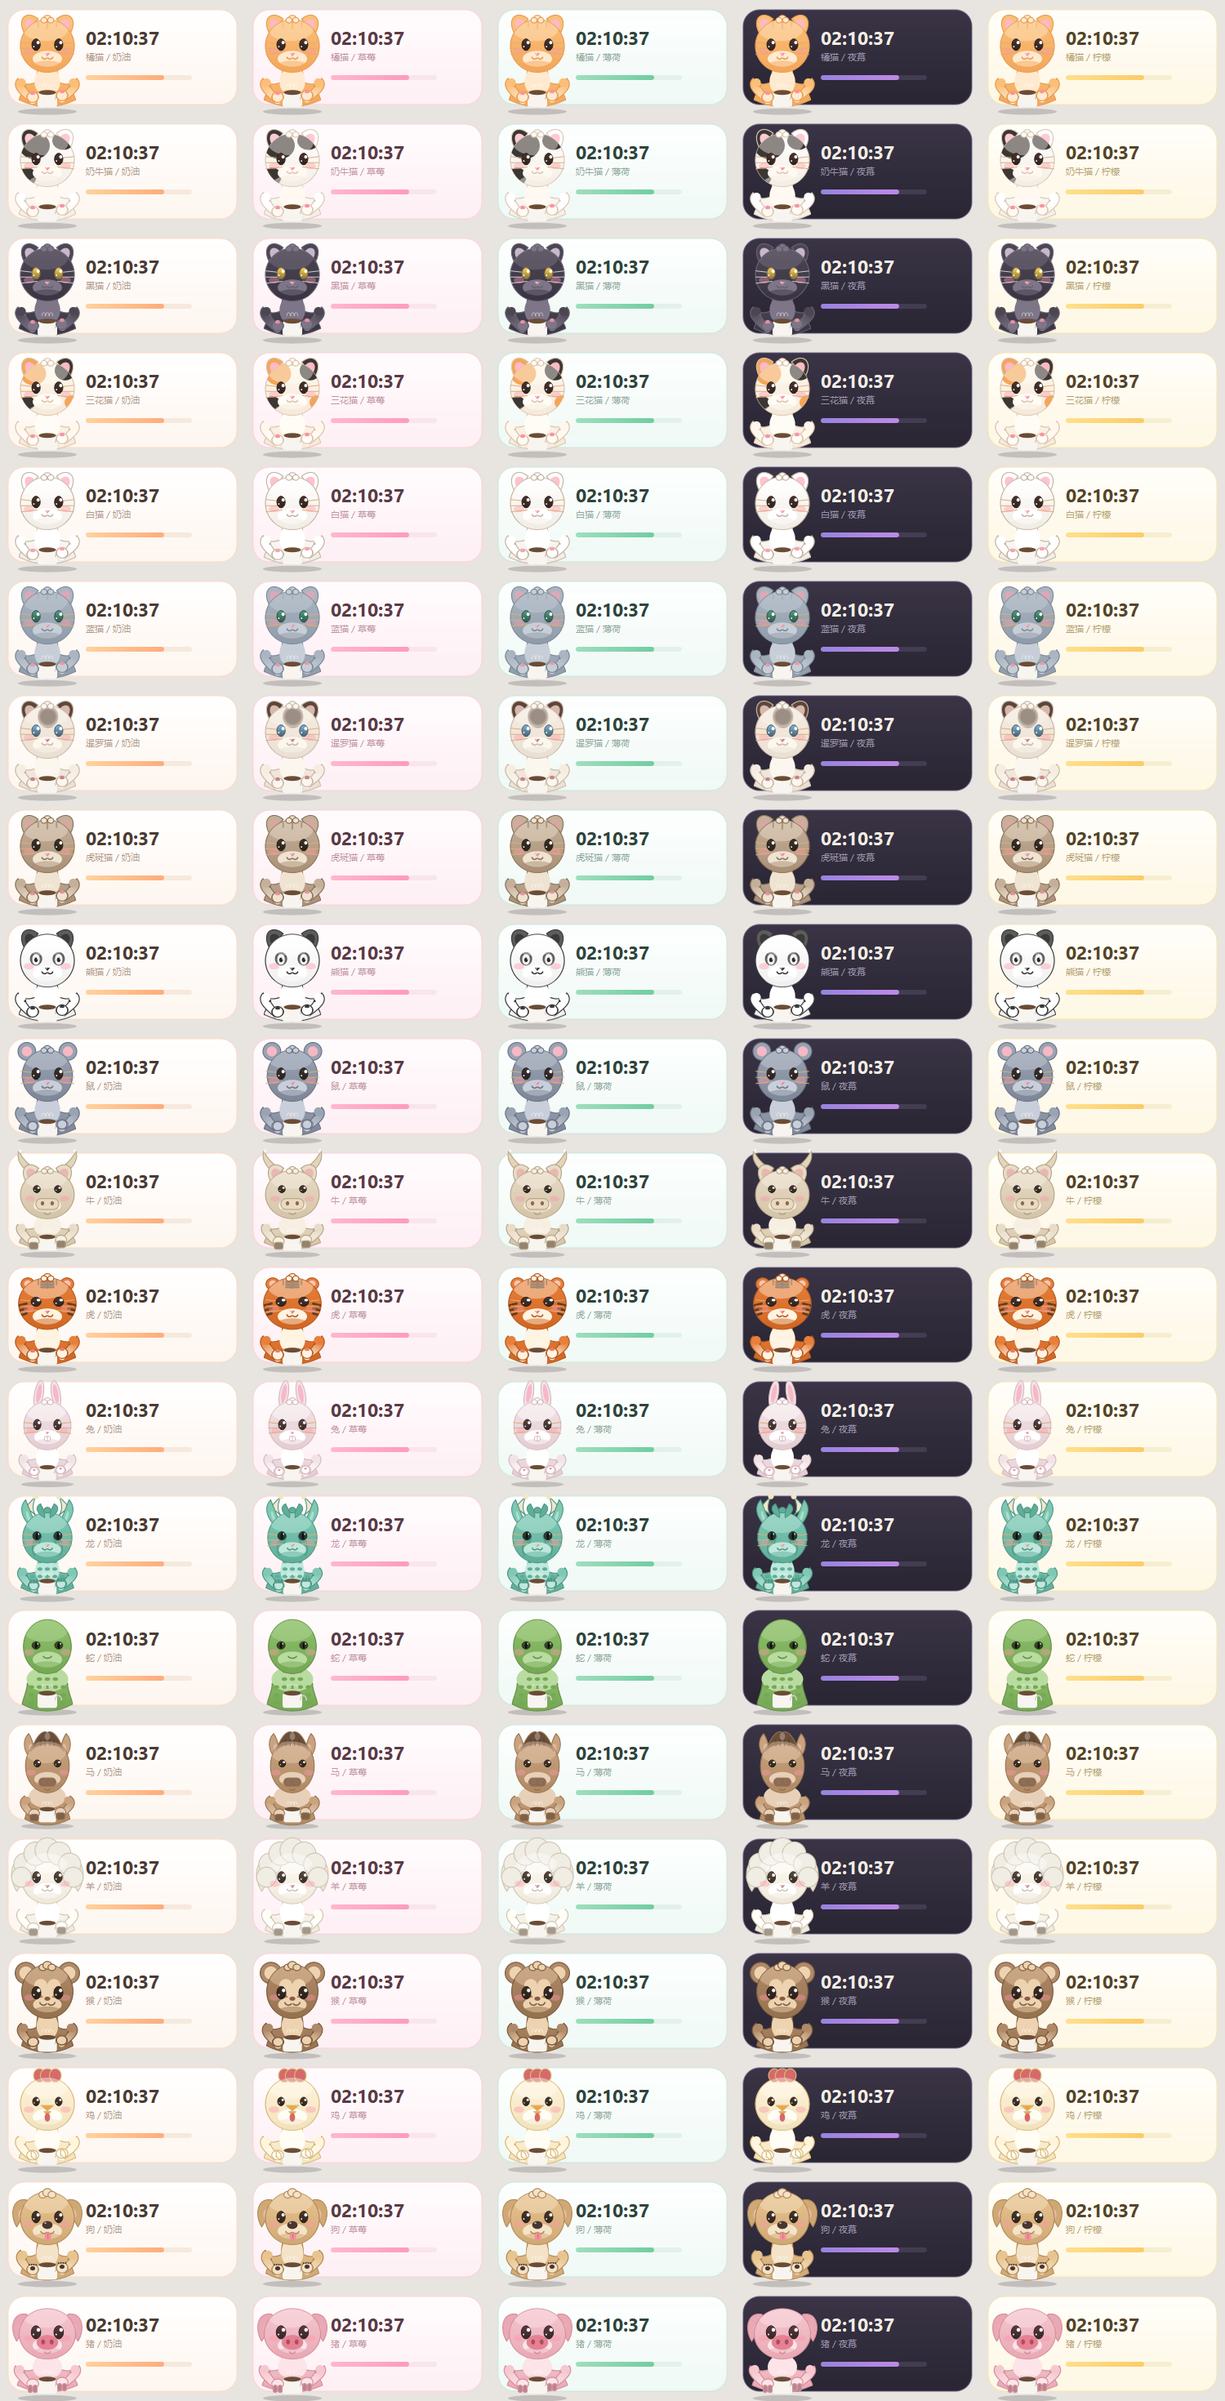
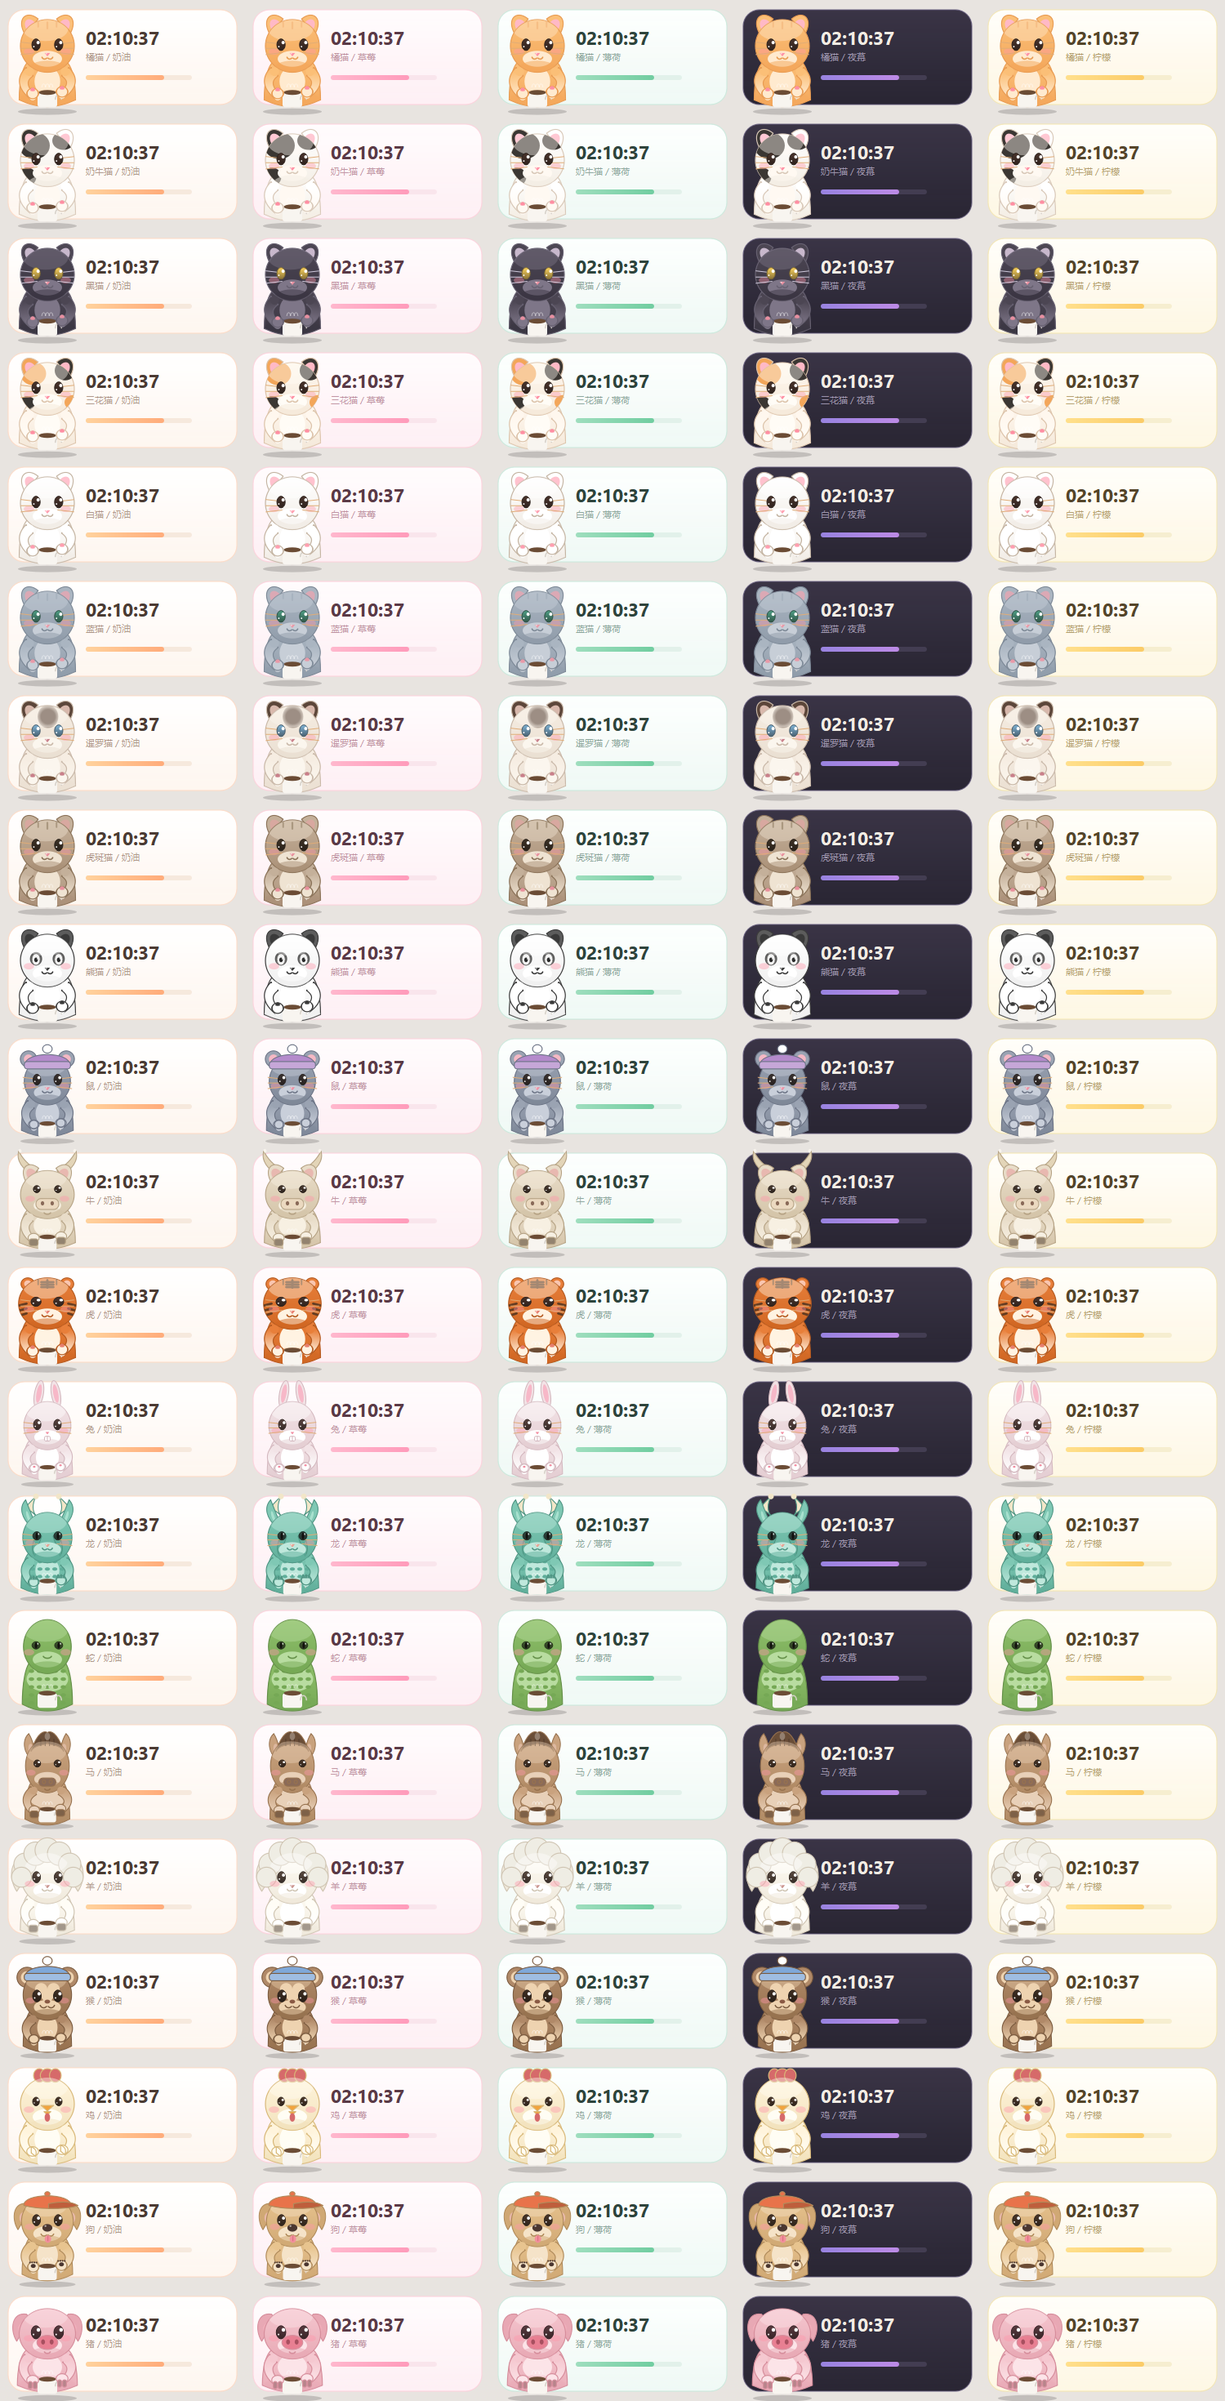
v32: 毛发改帽子（狗棒球帽/猴鼠毛线帽），下半身退回 v30 圆润版，围巾复位

diff --git a/cat_clock.py b/cat_clock.py
@@ -714,60 +714,55 @@ def _draw_arm(p, sx, sy, ex, ey, bx, by, s, colors, outline):
                          sh_w * 0.80, sh_w * 0.80))
 
 
-def _draw_hair(p, cx, cy, s, colors, outline, style, head_top, hw=0.88, t=0.0):
-    """头顶毛发：短绒毛簇 / 柔和浏海 / 龙背鳍，避免直立天线感。"""
+def _draw_hat(p, cx, cy, s, colors, outline, style, head_top, hw=0.88, t=0.0):
+    """头顶帽子：cap（棒球帽）/ beanie（毛线帽）。这种 Q 版风格不画头发。"""
     if style == "none":
         return
-    fur_l = colors["fur_l"]
-    fur_d = colors["fur_d"]
-    top = head_top + 0.03 * s              # 根部略沉入头顶
-    fine = s >= 110
-    p.setPen(outline)
-    p.setBrush(QColor(fur_l))
-
-    if style == "fluff":
-        # 中心三小簇，重叠成柔软毛团，不超出头顶太多
-        for dx, dy, rx, ry in ((0.00, -0.045, 0.065, 0.055),
-                               (-0.055, -0.020, 0.050, 0.045),
-                               (0.055, -0.020, 0.050, 0.045)):
-            p.drawEllipse(QRectF(cx + dx * s - rx * s, top + dy * s - ry * s,
-                                 2 * rx * s, 2 * ry * s))
-        if fine:
-            # 两侧各一个小绒球，让轮廓柔和
-            for sign in (-1, 1):
-                p.drawEllipse(QRectF(cx + sign * hw / 2 * s * 0.85 - 0.035 * s,
-                                     top - 0.035 * s,
-                                     0.07 * s, 0.06 * s))
-    elif style == "bangs":
-        # 额前浏海：三朵圆润小云，像一撮毛盖在额头
-        for dx, dy, rx, ry in ((-0.075, 0.015, 0.065, 0.055),
-                               (0.000, -0.020, 0.075, 0.065),
-                               (0.075, 0.015, 0.065, 0.055)):
-            p.drawEllipse(QRectF(cx + dx * s - rx * s, top + dy * s - ry * s,
-                                 2 * rx * s, 2 * ry * s))
-        if fine:
-            # 鬓角两小缕
-            for sign in (-1, 1):
-                p.drawEllipse(QRectF(cx + sign * 0.19 * s - 0.032 * s,
-                                     top + 0.06 * s - 0.028 * s,
-                                     0.064 * s, 0.056 * s))
-    elif style == "crest":
-        # 龙：柔和背鳍，从后脑勺向上向后飘，不立刺
-        pc = QColor(colors.get("mane") or fur_d)
-        p.setBrush(pc)
-        for sign in (-1, 1):
-            crest = QPainterPath()
-            crest.moveTo(cx + sign * 0.05 * s, top + 0.06 * s)
-            crest.cubicTo(cx + sign * 0.20 * s, top - 0.02 * s,
-                          cx + sign * 0.22 * s, top - 0.13 * s,
-                          cx + sign * 0.12 * s, top - 0.18 * s)
-            crest.cubicTo(cx + sign * 0.08 * s, top - 0.10 * s,
-                          cx + sign * 0.03 * s, top - 0.04 * s,
-                          cx + sign * 0.05 * s, top + 0.06 * s)
-            crest.closeSubpath()
-            p.drawPath(crest)
-        # 中间一簇把左右连起来
-        p.drawEllipse(QRectF(cx - 0.06 * s, top - 0.12 * s, 0.12 * s, 0.10 * s))
+    top = head_top
+    line_c = outline.color()
+    if style == "cap":
+        # 帽身：圆顶盖在头顶上半，颜色明快
+        cap_c = "#E8734A"
+        dome = QPainterPath()
+        dome.moveTo(cx - 0.40 * s, top + 0.16 * s)
+        dome.cubicTo(cx - 0.42 * s, top - 0.06 * s,
+                     cx + 0.42 * s, top - 0.06 * s,
+                     cx + 0.40 * s, top + 0.16 * s)
+        dome.quadTo(cx, top + 0.26 * s, cx - 0.40 * s, top + 0.16 * s)
+        dome.closeSubpath()
+        p.setPen(outline)
+        p.setBrush(QColor(cap_c))
+        p.drawPath(dome)
+        # 帽檐：向右前方挑出
+        brim = QPainterPath()
+        brim.moveTo(cx + 0.02 * s, top + 0.13 * s)
+        brim.quadTo(cx + 0.36 * s, top + 0.06 * s, cx + 0.52 * s, top + 0.16 * s)
+        brim.quadTo(cx + 0.36 * s, top + 0.22 * s, cx + 0.02 * s, top + 0.21 * s)
+        brim.closeSubpath()
+        p.setBrush(QColor(_mix(cap_c, "#000000", 0.18)))
+        p.drawPath(brim)
+        # 顶部小圆纽
+        p.setBrush(QColor(cap_c))
+        p.drawEllipse(QRectF(cx - 0.045 * s, top - 0.075 * s, 0.09 * s, 0.075 * s))
+    elif style == "beanie":
+        # 毛线帽：圆顶 + 翻边 + 绒球
+        bean_c = "#7FA8D9" if colors.get("shape") != "rat" else "#B48ACB"
+        dome = QPainterPath()
+        dome.moveTo(cx - 0.40 * s, top + 0.14 * s)
+        dome.cubicTo(cx - 0.42 * s, top - 0.12 * s,
+                     cx + 0.42 * s, top - 0.12 * s,
+                     cx + 0.40 * s, top + 0.14 * s)
+        dome.closeSubpath()
+        p.setPen(outline)
+        p.setBrush(QColor(bean_c))
+        p.drawPath(dome)
+        # 翻边（横向罗纹带）
+        p.setBrush(QColor(_mix(bean_c, "#FFFFFF", 0.25)))
+        p.drawRoundedRect(QRectF(cx - 0.41 * s, top + 0.07 * s,
+                                 0.82 * s, 0.13 * s), 0.05 * s, 0.05 * s)
+        # 绒球
+        p.setBrush(QColor("#FFFFFF"))
+        p.drawEllipse(QRectF(cx - 0.085 * s, top - 0.23 * s, 0.17 * s, 0.15 * s))
 
 
 
@@ -874,18 +869,18 @@ def _draw_prop(p, prop, cx, cy, s, colors, side=None, wx=None, wy=None):
                       Qt.PenStyle.SolidLine, Qt.PenCapStyle.RoundCap))
         p.drawLine(QPointF(ux, uy + r * 0.18), QPointF(wx, wy))
     elif prop == "scarf":
-        # 围巾绕脖子，暖红色（跟随新脖子位置）
+        # 围巾绕脖子，暖红色
         p.setPen(Qt.PenStyle.NoPen)
         p.setBrush(QColor("#D65A5A"))
-        p.drawEllipse(QRectF(cx - s * 0.38, cy + s * 0.50,
+        p.drawEllipse(QRectF(cx - s * 0.38, cy + s * 0.22,
                              s * 0.22, s * 0.18))
-        p.drawEllipse(QRectF(cx + s * 0.16, cy + s * 0.50,
+        p.drawEllipse(QRectF(cx + s * 0.16, cy + s * 0.22,
                              s * 0.22, s * 0.18))
         mid = QPainterPath()
-        mid.moveTo(cx - s * 0.28, cy + s * 0.52)
-        mid.quadTo(cx, cy + s * 0.64, cx + s * 0.28, cy + s * 0.52)
-        mid.lineTo(cx + s * 0.26, cy + s * 0.60)
-        mid.quadTo(cx, cy + s * 0.70, cx - s * 0.26, cy + s * 0.60)
+        mid.moveTo(cx - s * 0.28, cy + s * 0.24)
+        mid.quadTo(cx, cy + s * 0.36, cx + s * 0.28, cy + s * 0.24)
+        mid.lineTo(cx + s * 0.26, cy + s * 0.32)
+        mid.quadTo(cx, cy + s * 0.42, cx - s * 0.26, cy + s * 0.32)
         mid.closeSubpath()
         p.drawPath(mid)
 
@@ -1306,7 +1301,7 @@ def draw_cat(p, cx, cy, s, colors=None, blink=False, excited=False, sleepy=False
         if tw_rot:
             p.restore()
 
-    # ---- 半身：脖子 + 斜方肌肩膀 + 躯干（解决"头直接贴在身体上"的衔接问题） ----
+    # ---- 半身：圆润身体（头之前绘制，头会自然盖住肩线） ----
     if body:
         body_k = _BODY_SHAPE.get(shape, "round")
         if body_k == "slim":          # 狗 / 猴：略修长
@@ -1325,52 +1320,23 @@ def draw_cat(p, cx, cy, s, colors=None, blink=False, excited=False, sleepy=False
             bw, shw = s * 0.92, s * 0.58
             by0, by1 = cy + s * 0.24, cy + s * 1.02
             belly_w, belly_h = 0.21, 0.48
-
-        # 脖子 + 肩膀结构
-        neck_w = s * 0.18              # 脖子半宽
-        neck_top = cy + 0.30 * s
-        neck_base = cy + 0.58 * s
-        shoulder_y = cy + 0.60 * s
-        shoulder_w = bw / 2 * 0.80   # 肩峰半宽（略内收，避免肩太宽）
-
         bp = QPainterPath()
-        # 左肩峰 → 左颈根（斜方肌下滑）
-        bp.moveTo(cx - shoulder_w, shoulder_y)
-        bp.cubicTo(cx - shoulder_w, shoulder_y + 0.05 * s,
-                   cx - neck_w, neck_base + 0.03 * s,
-                   cx - neck_w, neck_base)
-        # 左脖子（圆柱感）
-        bp.cubicTo(cx - neck_w, cy + 0.46 * s,
-                   cx - neck_w * 0.85, cy + 0.36 * s,
-                   cx - neck_w * 0.75, neck_top)
-        # 脖子顶（被头盖住大部分）
-        bp.quadTo(cx, neck_top - 0.04 * s, cx + neck_w * 0.75, neck_top)
-        # 右脖子
-        bp.cubicTo(cx + neck_w * 0.85, cy + 0.36 * s,
-                   cx + neck_w, cy + 0.46 * s,
-                   cx + neck_w, neck_base)
-        # 右颈根 → 右肩峰
-        bp.cubicTo(cx + neck_w, neck_base + 0.03 * s,
-                   cx + shoulder_w, shoulder_y + 0.05 * s,
-                   cx + shoulder_w, shoulder_y)
-        # 右肩峰 → 右侧身体 → 底部 → 左侧 → 闭合
-        bp.cubicTo(cx + shoulder_w, cy + 0.72 * s,
-                   cx + bw / 2, by1 - 0.20 * s,
-                   cx + bw / 2, by1 - 0.14 * s)
-        bp.quadTo(cx, by1 + 0.08 * s, cx - bw / 2, by1 - 0.14 * s)
-        bp.cubicTo(cx - bw / 2, by1 - 0.20 * s,
-                   cx - shoulder_w, cy + 0.72 * s,
-                   cx - shoulder_w, shoulder_y)
+        bp.moveTo(cx - shw / 2, by0)
+        bp.cubicTo(cx - bw / 2, by0 + 0.10 * s,
+                   cx - bw / 2, by1 - 0.20 * s,
+                   cx - bw / 2, by1 - 0.14 * s)
+        bp.quadTo(cx, by1 + 0.08 * s, cx + bw / 2, by1 - 0.14 * s)
+        bp.cubicTo(cx + bw / 2, by1 - 0.20 * s,
+                   cx + bw / 2, by0 + 0.10 * s,
+                   cx + shw / 2, by0)
         bp.closeSubpath()
-
-        bg = QLinearGradient(cx, neck_top, cx, by1)
+        bg = QLinearGradient(cx, by0, cx, by1)
         bg.setColorAt(0, QColor(colors["fur"]))
         bg.setColorAt(1, QColor(colors["fur_d"]))
         p.setPen(outline)
         p.setBrush(bg)
         p.drawPath(bp)
-
-        # 肚皮浅色（位置随新躯干下移）
+        # 肚皮浅色
         p.setPen(Qt.PenStyle.NoPen)
         p.setBrush(QColor(colors["fur_l"]))
         p.drawEllipse(QRectF(cx - belly_w * s, by0 + 0.10 * s,
@@ -1555,9 +1521,9 @@ def draw_cat(p, cx, cy, s, colors=None, blink=False, excited=False, sleepy=False
     for sign in (-1, 1):
         p.drawEllipse(QRectF(cx + sign * 0.30 * s - 0.085 * s, cy + 0.04 * s, 0.17 * s, 0.105 * s))
 
-    # ---- 头顶毛发（物种差异化，避免所有脑袋都是同一个光椭圆） ----
-    _draw_hair(p, cx, cy, s, colors, outline, _HAIR.get(shape, "fluff"),
-               head_top, hw, t)
+    # ---- 头顶帽子（物种差异化；这种 Q 版风格不画头发） ----
+    _draw_hat(p, cx, cy, s, colors, outline, _HAT.get(shape, "none"),
+              head_top, hw, t)
 
     # ---- 胡须（猫/鼠/兔/虎/龙；深毛色用浅须，浅毛色用经典橘须） ----
     if shape in ("cat", "rat", "rabbit", "tiger", "dragon"):
@@ -1779,48 +1745,48 @@ def draw_cat(p, cx, cy, s, colors=None, blink=False, excited=False, sleepy=False
 
     # ---- 半身：手臂 + 爪掌 + 道具 ----
     if body:
-        # 肩峰位置与身体路径对齐（解决手臂"从头上长出"的问题）
+        # 肩线位置与圆润身体对齐：头盖住肩线上方，手臂从身体两侧自然伸出
         body_k = _BODY_SHAPE.get(shape, "round")
         if body_k == "slim":
-            bw = s * 0.86
+            shw = s * 0.52
         elif body_k == "long":
-            bw = s * 0.82
+            shw = s * 0.50
         elif body_k == "wide":
-            bw = s * 0.98
+            shw = s * 0.62
         else:
-            bw = s * 0.92
-        sx = bw / 2 * 0.92
-        sy0 = cy + 0.60 * s                          # 肩峰在头底下方，更真实
+            shw = s * 0.58
+        sx = shw / 2
+        sy0 = cy + 0.42 * s                          # 肩线（身体顶部，被头盖住）
         sway = math.sin(t * 1.1) * 0.014 * s
         # 默认姿态：双手自然垂在身体两侧（掌心朝身体内侧）
-        L = (cx - sx, sy0, cx - (sx + 0.10 * s), cy + 0.84 * s + sway,
-             cx - (sx + 0.18 * s), cy + 0.66 * s, 1.0, 0.0)
-        R = (cx + sx, sy0, cx + (sx + 0.10 * s), cy + 0.84 * s - sway,
-             cx + (sx + 0.18 * s), cy + 0.66 * s, -1.0, 0.0)
+        L = (cx - sx, sy0, cx - (sx + 0.16 * s), cy + 0.78 * s + sway,
+             cx - (sx + 0.24 * s), cy + 0.58 * s, 1.0, 0.0)
+        R = (cx + sx, sy0, cx + (sx + 0.16 * s), cy + 0.78 * s - sway,
+             cx + (sx + 0.24 * s), cy + 0.58 * s, -1.0, 0.0)
         if prop == "coffee":                        # 双手捧杯到身前（掌心朝上）
-            L = (cx - sx, sy0, cx - 0.24 * s, cy + 0.88 * s + sway,
-                 cx - 0.50 * s, cy + 0.66 * s, 0.0, -1.0)
-            R = (cx + sx, sy0, cx + 0.24 * s, cy + 0.88 * s - sway,
-                 cx + 0.50 * s, cy + 0.66 * s, 0.0, -1.0)
+            L = (cx - sx, sy0, cx - 0.24 * s, cy + 0.82 * s + sway,
+                 cx - 0.50 * s, cy + 0.60 * s, 0.0, -1.0)
+            R = (cx + sx, sy0, cx + 0.24 * s, cy + 0.82 * s - sway,
+                 cx + 0.50 * s, cy + 0.60 * s, 0.0, -1.0)
         elif prop == "coin":                        # 双手捧金币（掌心朝上）
-            L = (cx - sx, sy0, cx - 0.26 * s, cy + 0.86 * s + sway,
-                 cx - 0.52 * s, cy + 0.68 * s, 0.0, -1.0)
-            R = (cx + sx, sy0, cx + 0.26 * s, cy + 0.86 * s - sway,
-                 cx + 0.52 * s, cy + 0.68 * s, 0.0, -1.0)
+            L = (cx - sx, sy0, cx - 0.26 * s, cy + 0.80 * s + sway,
+                 cx - 0.52 * s, cy + 0.62 * s, 0.0, -1.0)
+            R = (cx + sx, sy0, cx + 0.26 * s, cy + 0.80 * s - sway,
+                 cx + 0.52 * s, cy + 0.62 * s, 0.0, -1.0)
         elif prop == "bag":                         # 右手拎包（掌心朝内/左）
-            R = (cx + sx, sy0, cx + (sx + 0.10 * s), cy + 0.80 * s - sway,
-                 cx + (sx + 0.18 * s), cy + 0.62 * s, -1.0, 0.0)
+            R = (cx + sx, sy0, cx + (sx + 0.16 * s), cy + 0.74 * s - sway,
+                 cx + (sx + 0.24 * s), cy + 0.56 * s, -1.0, 0.0)
         elif prop == "fan":                         # 右手举扇（掌心朝内/左）
-            R = (cx + sx, sy0 - 0.02 * s, cx + (sx + 0.10 * s), cy + 0.52 * s,
-                 cx + (sx + 0.18 * s), cy + 0.42 * s, -1.0, 0.0)
+            R = (cx + sx, sy0 - 0.02 * s, cx + (sx + 0.16 * s), cy + 0.46 * s,
+                 cx + (sx + 0.24 * s), cy + 0.36 * s, -1.0, 0.0)
         elif prop == "umbrella":                    # 右手举伞（掌心朝内/左）
-            R = (cx + sx, sy0 - 0.04 * s, cx + (sx + 0.02 * s), cy + 0.16 * s,
-                 cx + (sx + 0.14 * s), cy + 0.26 * s, -1.0, 0.0)
+            R = (cx + sx, sy0 - 0.04 * s, cx + sx * 0.90, cy + 0.16 * s,
+                 cx + (sx + 0.06 * s), cy + 0.26 * s, -1.0, 0.0)
         elif prop == "scarf":                       # 冷：双手抱胸（掌心朝内）
-            L = (cx - sx, sy0, cx - 0.22 * s, cy + 0.76 * s + sway,
-                 cx - 0.48 * s, cy + 0.62 * s, 1.0, 0.0)
-            R = (cx + sx, sy0, cx + 0.22 * s, cy + 0.76 * s - sway,
-                 cx + 0.48 * s, cy + 0.62 * s, -1.0, 0.0)
+            L = (cx - sx, sy0, cx - 0.22 * s, cy + 0.72 * s + sway,
+                 cx - 0.48 * s, cy + 0.58 * s, 1.0, 0.0)
+            R = (cx + sx, sy0, cx + 0.22 * s, cy + 0.72 * s - sway,
+                 cx + 0.48 * s, cy + 0.58 * s, -1.0, 0.0)
         if excited and prop is None:                # 快下班：双手举起欢呼（掌心朝前）
             L = (cx - sx, sy0, cx - 0.54 * s, cy + 0.24 * s,
                  cx - 0.60 * s, cy + 0.30 * s, 0.0, -1.0)
@@ -2132,10 +2098,10 @@ class RestDaysDialog(QDialog):
         return [i for i, b in enumerate(self.boxes) if b.isChecked()]
 
 
-# 各物种"头顶以上"的延伸系数（耳朵/角/鸡冠），半身模式用来自动定尺寸防出界
+# 各物种"头顶以上"的延伸系数（耳朵/角/鸡冠/帽子），半身模式用来自动定尺寸防出界
 _TOP_EXT = {"rabbit": 0.86, "ox": 0.76, "dragon": 0.78,
            "sheep": 0.72, "rooster": 0.64, "horse": 0.84,
-           "monkey": 0.70}
+           "monkey": 0.80, "dog": 0.72, "rat": 0.80}
 
 # 各物种身体形态（默认 round = 圆润标准）
 _BODY_SHAPE = {"horse": "long", "snake": "long", "ox": "wide", "pig": "wide",
@@ -2157,12 +2123,9 @@ _HEAD = {
     "panda":  (0.88, 0.86, 0.00),
 }
 
-# 各物种头顶毛发（默认 fluff = 短绒毛簇；避免"光椭圆"和"天线呆毛"）
-_HAIR = {
-    "dog": "bangs", "monkey": "bangs", "dragon": "crest",
-    "snake": "none", "sheep": "none", "horse": "none", "rooster": "none",
-    "ox": "fluff", "pig": "none", "rat": "fluff", "rabbit": "fluff",
-    "panda": "none",
+# 各物种帽子（这种 Q 版风格不画头发，改用可爱小帽做差异化）
+_HAT = {
+    "dog": "cap", "monkey": "beanie", "rat": "beanie",
 }
 
 # 各物种眼睛形态：(纵向偏移, 半宽, 全高, 是否竖瞳)
